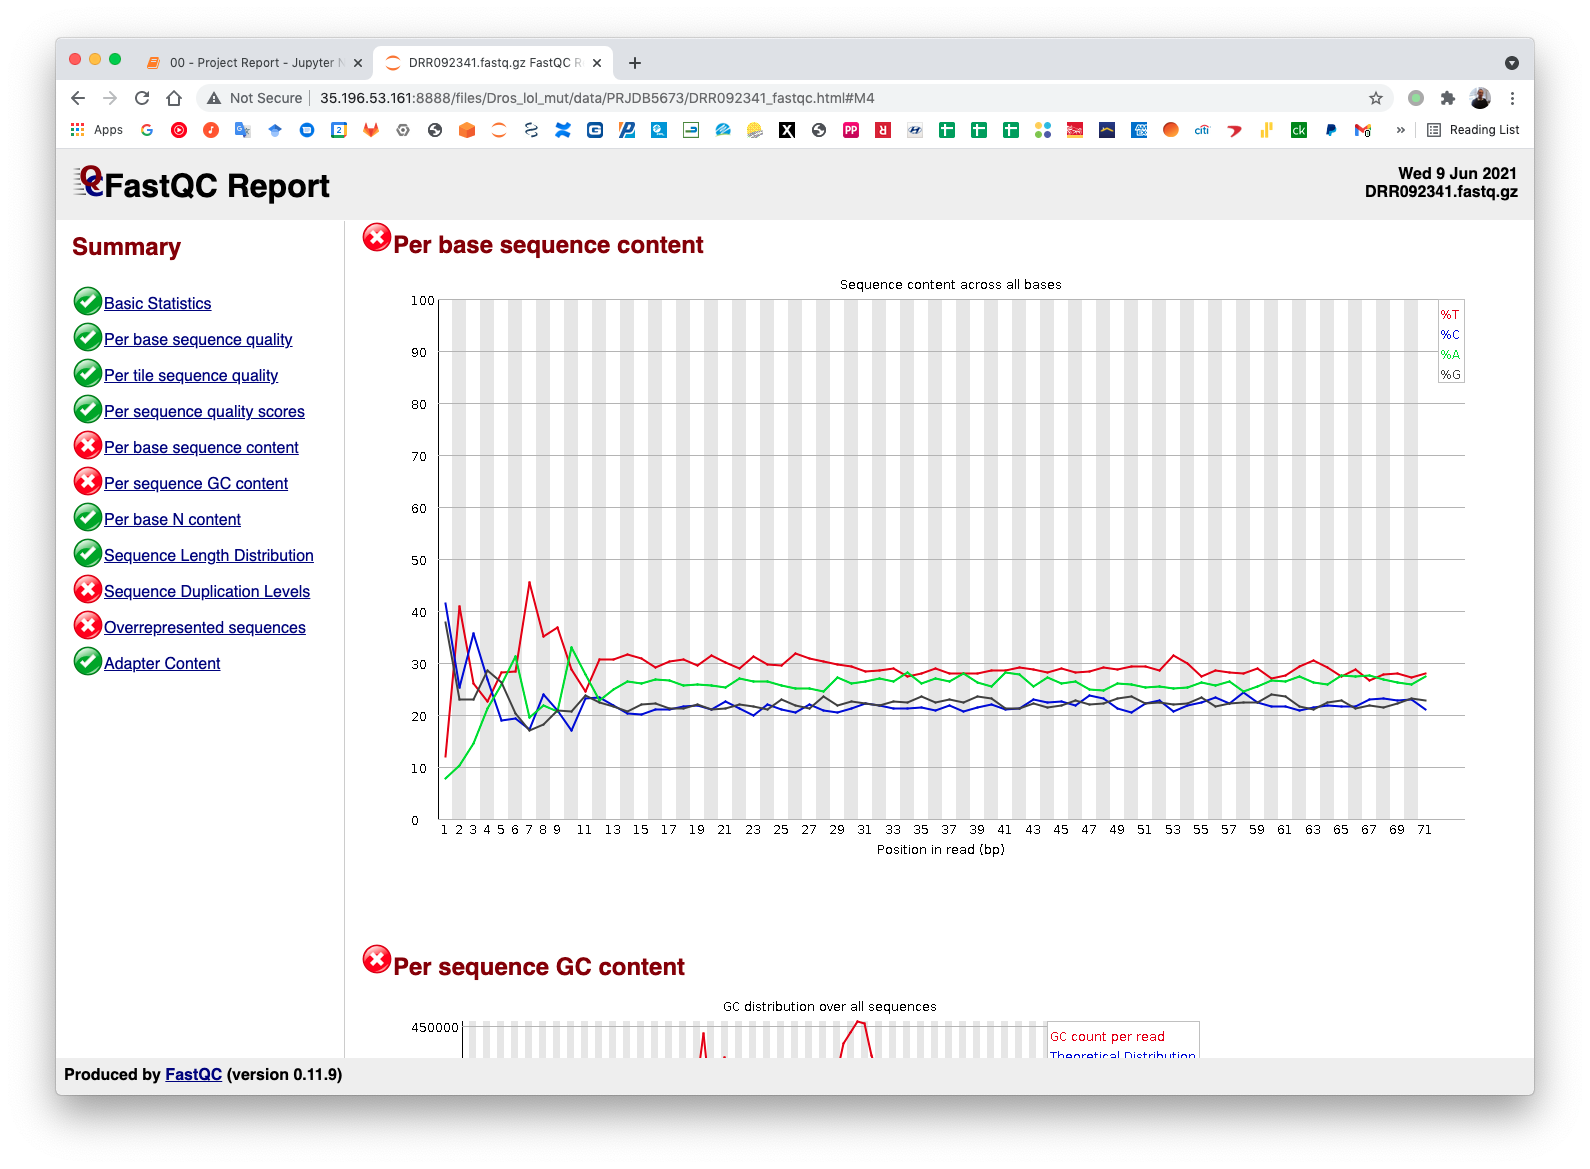
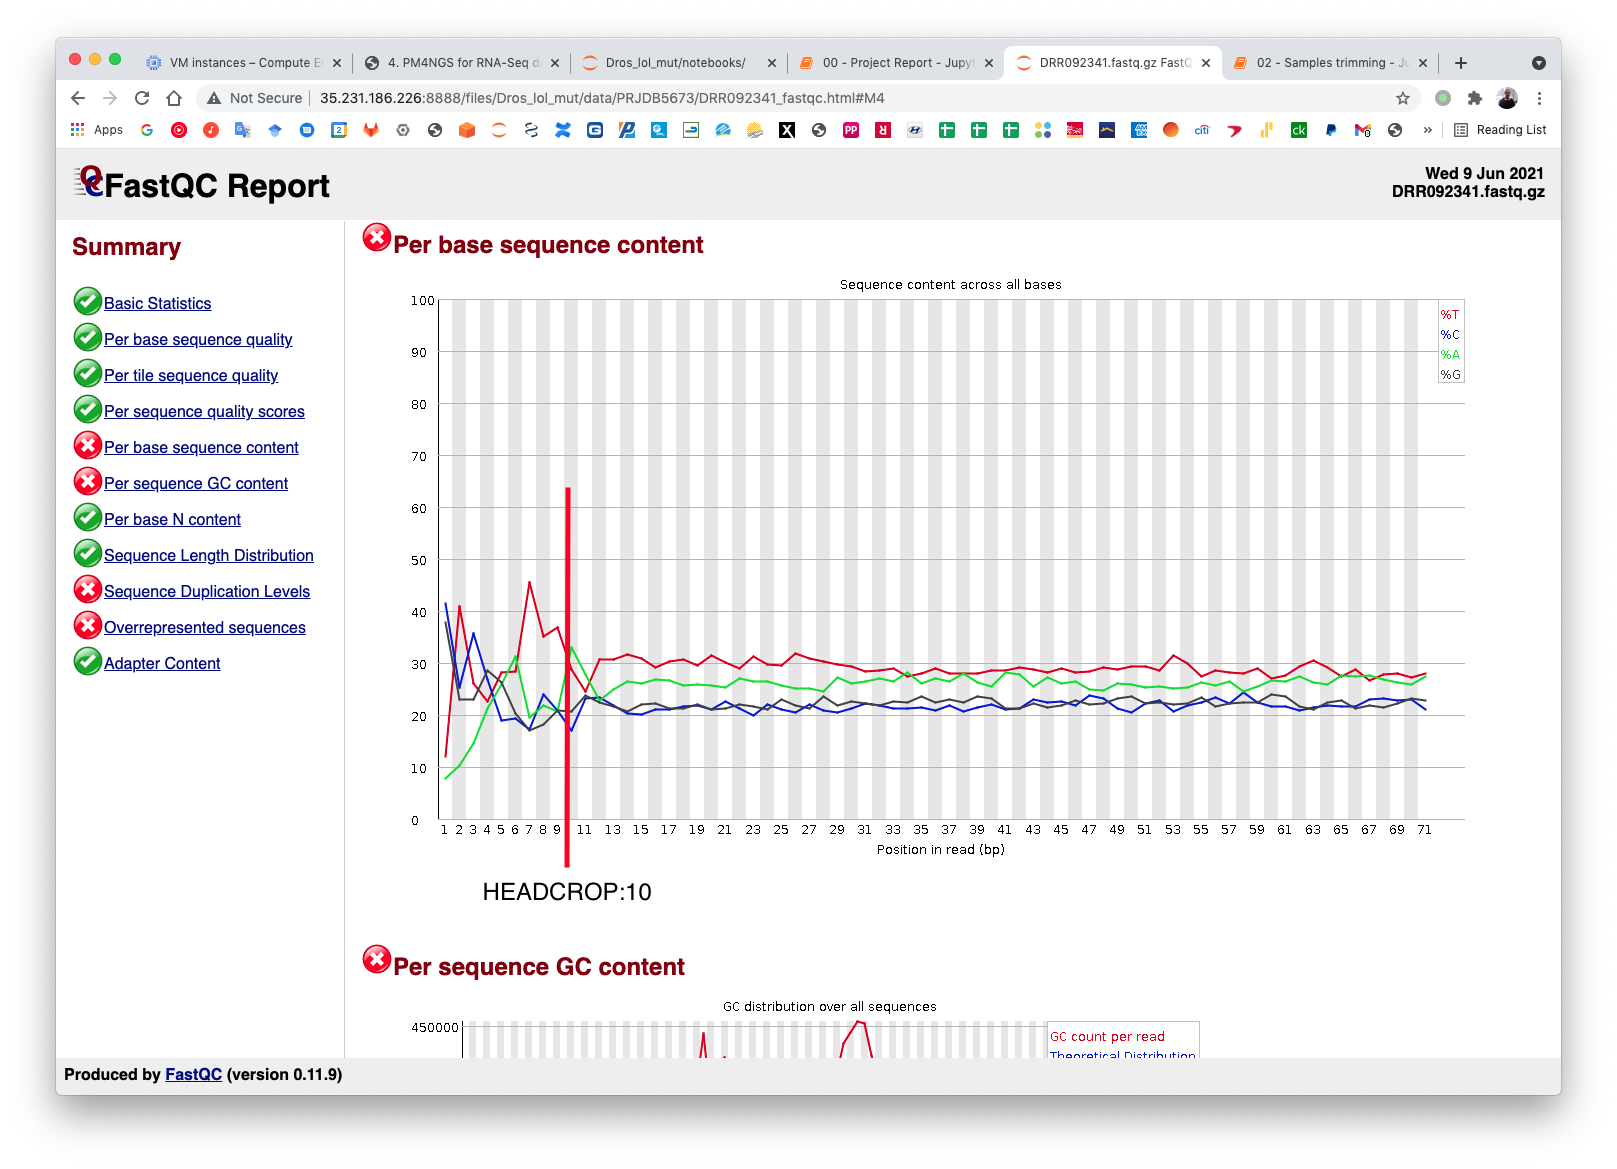
Adding trimming

diff --git a/source/pm4ngs.rst b/source/pm4ngs.rst
@@ -51,8 +51,8 @@ The project organizational data structure is:
 
 .. image:: /_images/jupyter-6.png
 
-Jupyter Notebook: 01 - Pre-processing QC
-----------------------------------------
+Pre-processing QC
+-----------------
 
 The first notebook download the SRA data using the accessions defined in the sample sheet. Execute all cells until the
 **Retrieving data using fastq-dump**. This cell will submit the CWL workflow. Open a terminal to check that the
@@ -70,7 +70,7 @@ the **tree** command to visualize the data structure.
 .. image:: /_images/jupyter-8.png
 
 The pre-processing table is available in the `00 - Project Report` notebook. The links in the table gives access to the
-FastQC reports for each sample. The reports are used to select the trimming parameters.
+FastQC_ reports for each sample. The reports are used to select the trimming parameters.
 
 .. image:: /_images/jupyter-9.png
 
@@ -79,3 +79,45 @@ FastQC reports for each sample. The reports are used to select the trimming para
 .. image:: /_images/jupyter-11.png
 
 .. image:: /_images/jupyter-12.png
+
+.. _FastQC: https://www.bioinformatics.babraham.ac.uk/projects/fastqc/
+
+Samples trimming
+----------------
+
+Trimmomatic_ performs a variety of useful trimming tasks for illumina paired-end and single ended data.The selection
+of trimming steps and their associated parameters are supplied on the command line.
+
+The current trimming steps are:
+
+ * ILLUMINACLIP: Cut adapter and other illumina-specific sequences from the read.
+ * SLIDINGWINDOW: Perform a sliding window trimming, cutting once the average quality within the window falls below a threshold.
+ * LEADING: Cut bases off the start of a read, if below a threshold quality
+ * TRAILING: Cut bases off the end of a read, if below a threshold quality
+ * CROP: Cut the read to a specified length
+ * HEADCROP: Cut the specified number of bases from the start of the read
+ * MINLEN: Drop the read if it is below a specified length
+ * TOPHRED33: Convert quality scores to Phred-33
+ * TOPHRED64: Convert quality scores to Phred-64
+
+It works with FASTQ (using phred + 33 or phred + 64 quality scores, depending on the Illumina pipeline used), either
+uncompressed or gzipp'ed FASTQ. Use of gzip format is determined based on the .gz extension.
+
+PM4NGS uses standard options for Trimmomatic but in this example we need to add **HEADCROP:10** as it is shown in next
+figure:
+
+.. image:: /_images/jupyter-13.png
+
+Updating the `00 - Project Report` notebook.
+
+.. image:: /_images/jupyter-14.png
+
+Check the FastQC reports to check if the trimming reduced the distortion in the first 10 bases.
+
+.. image:: /_images/jupyter-15.png
+
+.. _Trimmomatic: http://www.usadellab.org/cms/?page=trimmomatic
+
+Alignment and Quantification
+----------------------------
+
